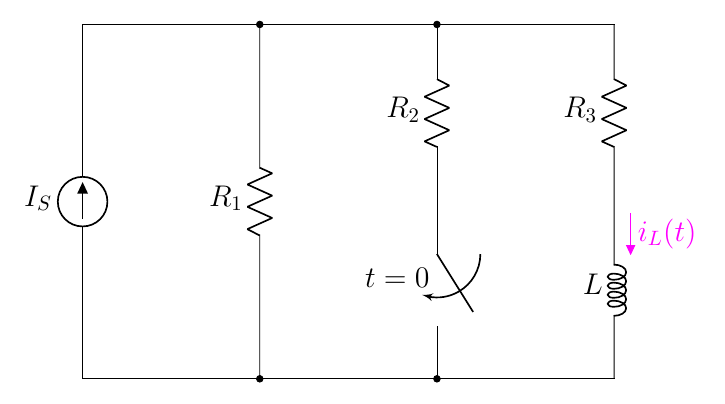
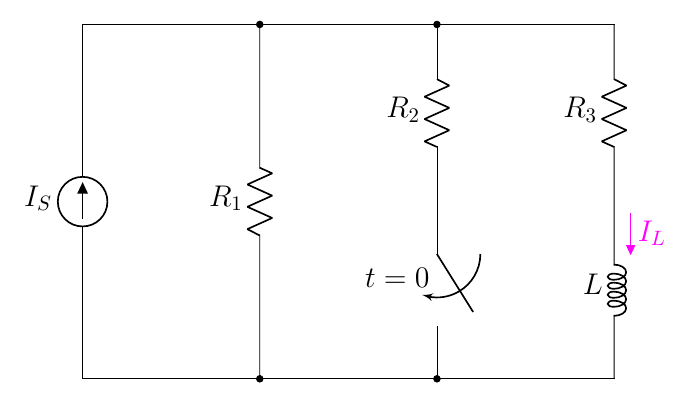
7.54

diff --git a/2.3 Driven RL/7.6 Driven RL/7.54(new).tex b/2.3 Driven RL/7.6 Driven RL/7.54(new).tex
@@ -10,7 +10,7 @@
                 to[switch,bipoles/length=3.5cm] ++(0,-3);
     
     \draw[circuitikz/current arrow color=magenta](9,6)  to[R,l_=\rname{3}] ++(0,-3)
-                to[L,l_=\lname{},f>^=$\color{magenta}{i_L(t)}$] ++(0,-3);
+                to[L,l_=\lname{},f>^=$\color{magenta}{I_L}$] ++(0,-3);
 
 
     %%% horizontal %%%
